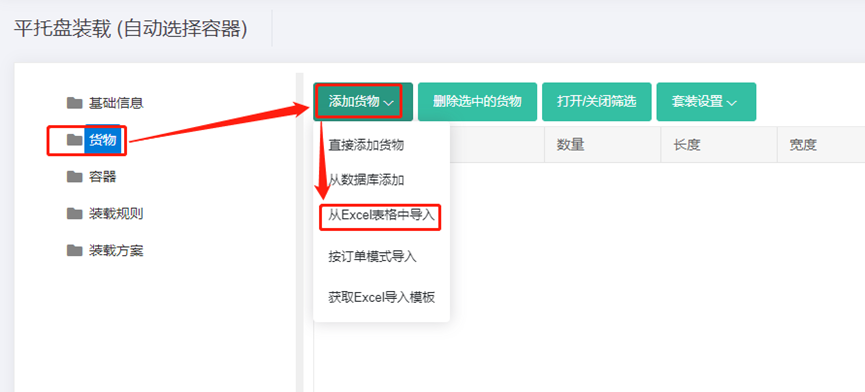
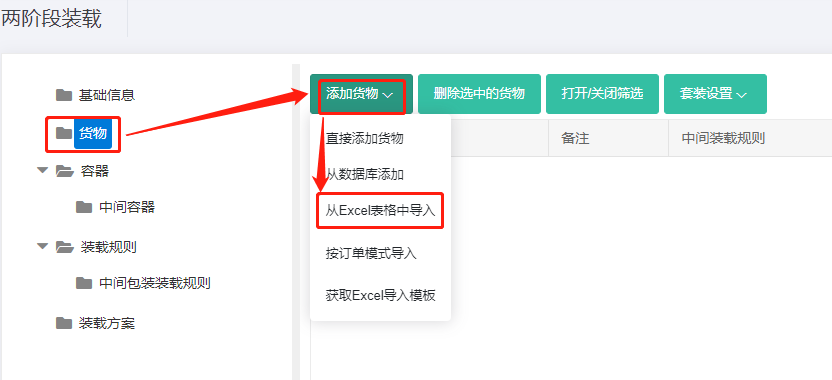
GitBook: [master] 5 pages and 25 assets modified

diff --git a/work/3-liang-jie-duan-you-hua-pei-zai/b-huo-wu-quan-da-tuo-zai-zhuang-gui-shi-ru-he-sheng-cheng-gao-di-tuo-chong-fen-li-yong-kong-jian.md b/work/3-liang-jie-duan-you-hua-pei-zai/b-huo-wu-quan-da-tuo-zai-zhuang-gui-shi-ru-he-sheng-cheng-gao-di-tuo-chong-fen-li-yong-kong-jian.md
@@ -1,0 +1,77 @@
+# b、货物全打托再装柜时如何生成高低托充分利用空间
+
+货物先打托后装集装箱时，为了充分利用集装箱的空间，可以生成高低托来装载，在软件中如何定义？
+
+下面通过一个示例来讲解：
+
+**装箱数据：**
+
+| 名称 | 数量 | 长（cm） | 宽（cm） | 高（cm） |
+| :--- | :--- | :--- | :--- | :--- |
+| A | 321 | 60 | 50 | 20 |
+| B | 360 | 30 | 25 | 20 |
+| C | 120 | 55 | 55 | 30 |
+| D | 264 | 27 | 55 | 30 |
+
+**装载要求：**
+
+1）货物不能长垂直于地摆放。
+
+2）计算货物如何全部打托再装40尺普柜，托盘使用亚洲通用平托盘1100\*1100。
+
+3）货物要打成上下两层托盘，托盘的高度不限定，为了充分利用空间，货物可以打成高低托来装载。
+
+根据当前装载要求，应选择“两阶段装载”任务类型，点击进入。
+
+![](../../.gitbook/assets/0%20%2824%29.png)
+
+进入基础信息填写界面，基础信息是选填项，用户可根据实际工作要求，填写PO单号、运单号或目的港等信息，方便以后查阅。接下来，开始方案的设计：
+
+**第一步：**点击左侧的【货物】，进入货物界面，因货物种类较多，所以使用excel批量导入。
+
+1）首先要获取导入模板，点击【添加货物】下的“获取excel导入模板”，另存到桌面。
+
+![](../../.gitbook/assets/1%20%2823%29.png)
+
+2）填写导入模板（下载好的模板会自动打开）：
+
+①将货物的名称、数量、长宽高复制进来，这是必填项。重量是单件货物的毛重，若货物重量较轻可以忽略，重量可以不填写，若货物较重，为了不超重安全运输，重量必须填写，注意单位的匹配。
+
+②然后定义货物的摆放方式，因本案例要求货物只能高垂直于地面摆放，即只能立放、立放水平旋转，所以要将其他摆放方式下的“允许”一栏填写为“0”，0表示不允许，1或者不填表示允许。
+
+![](../../.gitbook/assets/2%20%2824%29.png)
+
+③最后定义装载属性，因要求货物先打托后装集装箱，所以货物的“包装方式”都设置为“1”。0或不填表示货物直接装集装箱；1表示货物自由选择合适的托盘/纸箱；2表示货物使用指定的中间包装装载。
+
+![](../../.gitbook/assets/3%20%2823%29.png)
+
+本案例中其他装载要求不涉及，因此模板中其他参数不用设置，按默认值即可。实际工作中若有其他要求，涉及到相关参数的设置，可参考上文中的相关介绍。模板填写完成，保存后关闭。
+
+3）回到软件的货物界面，点击【添加货物】下的“从excel表格中导入”，在弹框中找到填写好的模板，点击打开，货物数据就全部导入到软件中了。
+
+![](../../.gitbook/assets/4%20%2823%29.png)
+
+**第二步:** 点击左侧的【容器】，添加集装箱，因要计算这批货物要装40GP，所以只需将40GP添加进来即可（若不知道用什么柜型，可以将常用的柜型都添加进来，让软件自动选择）。点击“从数据库中添加”，在弹框中勾选40GP，点击“添加”，关闭弹框，然后设置集装箱的角件和保留尺寸，关于定义保留尺寸的注意事项，请参考[《如何模拟纸箱胀箱和人工摆放间隙》。]()
+
+![](../../.gitbook/assets/5%20%2823%29.png)
+
+注意本案例是托盘装柜，为了方便叉车作业，高度保留尺寸要设置为10cm；因此集装箱角件10CM也就被扣除掉了，所以角件尺寸不用设置。
+
+**第三步：**点击左侧的【中间容器】，添加托盘。因要装亚洲通用平托盘1100\*1100，所以它添加进来即可。点击“从数据库中添加”，在弹框中勾选托盘1100\*1100，点击“添加”，关闭弹框。然后定义托盘的最大摆放高度，因用户要求货物要打成上下两层托盘，托盘的高度不限定，所以可以将托盘的最大摆放高度设置为大于集装箱高度一半的数值，可以对数值进行调整，分别看看装载效果，选择合适的装载方案，此案例设置为150cm。
+
+![](../../.gitbook/assets/6%20%2819%29.png)
+
+注：若不知道用什么托盘，可以将常用的托盘都添加进来，让软件自动选择。若是数据库中没有常用托盘，可以点击“直接添加”下的平托盘，然后编辑名称、长宽高等信息，为了避免每次重复输入，也可以将常用托盘维护到数据库中，具体方法步骤请参考上文中的[《容器管理》]()。
+
+**第四步：**点击【装载规则】，定义托盘装集装箱时的配载规则。因用户要求为了充分利用空间，货物可以打成高低托来装载，所以将 【中间包装生成方式】选择为“根据集装箱的高度动态确定托盘的高度”。
+
+![](../../.gitbook/assets/7%20%2818%29.png)
+
+**第五步：**点击左侧的【中间包装装载规则】，定义货物打托时的装载规则。因此案例打托时不涉及其他的装载要求，所以按默认设置即可，不需要改动。
+
+点击自动优化，得出装载方案，在左侧容器列表可以统计出这批货物使用了40个1100\*1100托盘，最后使用了1个40GP装完。分别点击容器名称，可以看到每个容器的3D装载效果图，图的右侧有当前容器的货物统计、装载步骤和平衡分析。根据立体图可以看到货物生成了高低托来装载，完全满足用户的需求。
+
+![](../../.gitbook/assets/8%20%2812%29.png)
+
+方案审核完成后，可以分享装载方案手机指导现场装载和下载装箱报表用来制作装箱单和报关单，具体方法步骤可以查看文档中的相关介绍。
+

diff --git a/work/2-tuo-pan-you-hua-pei-zai/c-ru-he-ding-yi-tong-yi-ding-dan-de-huo-wu-jin-liang-bu-chai-fen-dao-duo-ge-rong-qi-zhong.md b/work/2-tuo-pan-you-hua-pei-zai/c-ru-he-ding-yi-tong-yi-ding-dan-de-huo-wu-jin-liang-bu-chai-fen-dao-duo-ge-rong-qi-zhong.md
@@ -25,7 +25,7 @@
 
 根据当前装载要求，应选择“托盘装载/多品”任务类型，点击进入。
 
-![](../../.gitbook/assets/0%20%2825%29.png)
+![](../../.gitbook/assets/0%20%2826%29.png)
 
 进入基础信息填写界面，基础信息是选填项，用户可根据实际工作要求，填写PO单号、运单号或目的港等信息，方便以后查阅。接下来，开始方案的设计：
 
@@ -33,7 +33,7 @@
 
 1）首先要获取导入模板，点击【添加货物】下的“获取excel导入模板”，另存到桌面。
 
-![](../../.gitbook/assets/1%20%2824%29.png)
+![](../../.gitbook/assets/1%20%2825%29.png)
 
 2）填写导入模板（下载好的模板会自动打开）：
 
@@ -41,33 +41,33 @@
 
 ②然后定义货物的摆放方式，因本案例要求货物只能高垂直于地面摆放，即只能能立放、立放水平旋转，所以要将其他摆放方式下的“允许”一栏填写为“0”，0表示不允许，1或者不填表示允许。
 
-![](../../.gitbook/assets/2%20%2824%29.png)
+![](../../.gitbook/assets/2%20%2825%29.png)
 
 ③最后定义装载属性，因要求同一订单的货物尽量不拆分，所以需要将同一订单的货物设置相同的群组，不同订单的货物设置不同的群组。群组名称可以数字、汉字、字母，此案例使用订单号来定义。
 
-![](../../.gitbook/assets/3%20%2825%29.png)
+![](../../.gitbook/assets/3%20%2826%29.png)
 
 本案例中其他装载要求不涉及，因此模板中其他参数不用设置，按默认值即可。实际工作中若有其他要求，涉及到相关参数的设置，可参考上文中的相关介绍。模板填写完成，保存后关闭。
 
 3）回到软件的货物界面，点击【添加货物】下的“从excel表格中导入”，在弹框中找到填写好的模板，点击打开，货物数据就全部导入到软件中了。
 
-![](../../.gitbook/assets/4%20%2824%29.png)
+![](../../.gitbook/assets/4%20%2825%29.png)
 
 **第二步:** 点击左侧的【容器】，添加托盘，点击【添加容器】下的“平托盘”，然后设置托盘的长宽高为116\*116\*10cm，“最大摆放高度”为126CM。
 
-![](../../.gitbook/assets/5%20%2823%29.png)
+![](../../.gitbook/assets/5%20%2824%29.png)
 
 软件数据库中已存储常用的托盘信息，可以通过点击“从数据库添加”来添加，但是本案例的托盘信息没有在数据库中，所以此托盘要是经常使用，为了以后设计方案时避免重复输入，可以维护到数据库中，具体方法步骤可查看[《容器管理》]()。
 
 **第三步：**点击左侧的【装载规则】，进入装载规则界面，将“使同一个群组的货物分装的容器尽可能的少”勾选上。
 
-![](../../.gitbook/assets/6%20%2819%29.png)
+![](../../.gitbook/assets/6%20%2820%29.png)
 
 点击自动优化，得出装载方案。在左侧容器列表可以看到，货物使用3个托盘装完。中间是3D装载效果图，图的右侧有当前容器装载的货物统计。分别点击容器名称，可以通过每个托盘的立体图或统计表可以看出，同一个订单的货物装在了同一个集装箱内，没有分装到其他容器，完全满足客户的需求。
 
 ![](../../.gitbook/assets/7%20%2817%29.png)
 
-![](../../.gitbook/assets/8%20%2812%29.png)
+![](../../.gitbook/assets/8%20%2813%29.png)
 
 ![](../../.gitbook/assets/9%20%2810%29.png)
 

diff --git a/work/2-tuo-pan-you-hua-pei-zai/b-ru-he-ding-yi-bu-tong-ding-dan-de-huo-wu-bu-neng-hun-he-da-tuo.md b/work/2-tuo-pan-you-hua-pei-zai/b-ru-he-ding-yi-bu-tong-ding-dan-de-huo-wu-bu-neng-hun-he-da-tuo.md
@@ -25,7 +25,7 @@
 
 根据当前装载要求，应选择“托盘装载/多品”任务类型，点击进入。
 
-![](../../.gitbook/assets/0%20%2824%29.png)
+![](../../.gitbook/assets/0%20%2825%29.png)
 
 进入基础信息填写界面，基础信息是选填项，用户可根据实际工作要求，填写PO单号、运单号或目的港等信息，方便以后查阅。接下来，开始方案的设计：
 
@@ -33,7 +33,7 @@
 
 1）首先要获取导入模板，点击【添加货物】下的“获取excel导入模板”，另存到桌面。
 
-![](../../.gitbook/assets/1%20%2823%29.png)
+![](../../.gitbook/assets/1%20%2824%29.png)
 
 2）填写导入模板（下载好的模板会自动打开）：
 
@@ -41,17 +41,17 @@
 
 ②然后定义货物的摆放方式，因本案例要求货物不能长垂直于地面摆放，即不能躺放、躺放水平旋转，所以要将躺放、躺放水平旋转的“允许”一栏填写为“0”，0表示不允许，1或者不填表示允许。
 
-![](../../.gitbook/assets/2%20%2825%29.png)
+![](../../.gitbook/assets/2%20%2826%29.png)
 
 1. 最后定义装载属性，因要求只有A和B可以混装在一个托盘上，其他的不能混装，所以需要将可以混装的AB设置相同的群组，不允许混装的货物设置不同的群组。群组名称可以数字、汉字、字母，此案例使用字母来定义。
 
-![](../../.gitbook/assets/3%20%2824%29.png)
+![](../../.gitbook/assets/3%20%2825%29.png)
 
 本案例中其他装载要求不涉及，因此模板中其他参数不用设置，按默认值即可。实际工作中若有其他要求，涉及到相关参数的设置，可参考上文中的相关介绍。模板填写完成，保存后关闭。
 
 3）回到软件的货物界面，点击【添加货物】下的“从excel表格中导入”，在弹框中找到填写好的模板，点击打开，货物数据就全部导入到软件中了。
 
-![](../../.gitbook/assets/4%20%2823%29.png)
+![](../../.gitbook/assets/4%20%2824%29.png)
 
 **第二步:** 点击左侧的【容器】，添加托盘，点击“从数据库添加”,在弹框中勾选常用托盘，点击添加，关闭弹窗，然后分别设置托盘的“最大摆放高度”为120CM，“长宽方向允许出边”为5cm。
 
@@ -61,7 +61,7 @@
 
 **第三步：**点击左侧的【装载规则】，进入装载规则界面，将“允许不同群组的货物混装在一个容器内”取消勾选，即不允许不同群组的货物混装。
 
-![](../../.gitbook/assets/6%20%2821%29.png)
+![](../../.gitbook/assets/6%20%2822%29.png)
 
 点击自动优化，生成装载方案。在左侧容器列表可以看到，货物使用2个1100\*1100托盘、2个1200\*1000托盘装完。中间是3D装载效果图，通过立体图或图右侧的货物统计表可以看到只有AB混合装载，其他的都没有混装，完全满足客户的装载要求。
 

diff --git a/work/3-liang-jie-duan-you-hua-pei-zai/a-ru-he-shi-xian-huo-wu-xian-da-tuo-hou-zhuang-ji-zhuang-xiang-de-zhuang-zai-yao-qiu.md b/work/3-liang-jie-duan-you-hua-pei-zai/a-ru-he-shi-xian-huo-wu-xian-da-tuo-hou-zhuang-ji-zhuang-xiang-de-zhuang-zai-yao-qiu.md
@@ -31,7 +31,7 @@
 
 1）首先要获取导入模板，点击【添加货物】下的“获取excel导入模板”，另存到桌面。
 
-![](../../.gitbook/assets/1%20%2825%29.png)
+![](../../.gitbook/assets/1%20%2826%29.png)
 
 2）填写导入模板（下载好的模板会自动打开）：
 
@@ -39,11 +39,11 @@
 
 ②然后定义货物的摆放方式，因本案例要求货物不能长垂直于地面摆放，即不能躺放、躺放水平旋转，所以要将躺放、躺放水平旋转下的“允许”一栏填写为“0”，0表示不允许，1或者不填表示允许。
 
-![](../../.gitbook/assets/2%20%2826%29.png)
+![](../../.gitbook/assets/2%20%2827%29.png)
 
 ③最后定义装载属性，因要求货物先打托后装集装箱，所以货物的“包装方式”都设置为“1”。0或不填表示货物直接装集装箱；1表示货物自由选择合适的托盘/纸箱；2表示货物使用指定的中间包装装载。
 
-![](../../.gitbook/assets/3%20%2823%29.png)
+![](../../.gitbook/assets/3%20%2824%29.png)
 
 本案例中其他装载要求不涉及，因此模板中其他参数不用设置，按默认值即可。实际工作中若有其他要求，涉及到相关参数的设置，可参考上文中的相关介绍。模板填写完成，保存后关闭。
 
@@ -59,7 +59,7 @@
 
 **第三步：**点击左侧的【中间容器】，添加托盘。因用户不知道用什么规格的托盘装载，所以需要将常用的托盘都添加进来，以便软件择合适的托盘。若是数据库中没有常用托盘，可以点击“直接添加”下的平托盘，然后编辑名称、长宽高等信息，为了避免每次重复输入，也可以将常用托盘维护到数据库中，具体方法步骤请参考上文中的[《容器管理》]()。
 
-![](../../.gitbook/assets/6%20%2820%29.png)
+![](../../.gitbook/assets/6%20%2821%29.png)
 
 本案例，点击“从数据库添加”在弹框中找常用的欧标和亚标托盘，点击导入，关闭弹框。然后按照用户要求分别定义托盘的最大摆放高度为110cm。
 
@@ -71,7 +71,7 @@
 
 点击自动优化，得出装载方案。根据左侧容器列表可以统计出这批货物使用了32个1200\*1000托盘、10个1100\*1100托盘，最后使用了1个40GP装完。分别点击容器名称，可以看到每个容器的3D装载效果图，图的右侧有当前容器的货物统计、装载步骤和平衡分析。
 
-![](../../.gitbook/assets/8%20%2813%29.png)
+![](../../.gitbook/assets/8%20%2814%29.png)
 
 方案审核完成后，可以分享装载方案手机指导现场装载和下载装箱报表用来制作装箱单和报关单，具体方法步骤可以查看文档中的相关介绍。
 

diff --git a/SUMMARY.md b/SUMMARY.md
@@ -92,6 +92,7 @@
     * [c、如何定义同一订单的货物尽量不拆分到多个容器中](work/2-tuo-pan-you-hua-pei-zai/c-ru-he-ding-yi-tong-yi-ding-dan-de-huo-wu-jin-liang-bu-chai-fen-dao-duo-ge-rong-qi-zhong.md)
   * [3、两阶段优化配载](work/3-liang-jie-duan-you-hua-pei-zai/README.md)
     * [a、如何实现货物先打托后装集装箱的装载要求](work/3-liang-jie-duan-you-hua-pei-zai/a-ru-he-shi-xian-huo-wu-xian-da-tuo-hou-zhuang-ji-zhuang-xiang-de-zhuang-zai-yao-qiu.md)
+    * [b、货物全打托再装柜时如何生成高低托充分利用空间](work/3-liang-jie-duan-you-hua-pei-zai/b-huo-wu-quan-da-tuo-zai-zhuang-gui-shi-ru-he-sheng-cheng-gao-di-tuo-chong-fen-li-yong-kong-jian.md)
 * [六、方案审核](auditing-plan/README.md)
   * [1、是否模拟纸箱涨或人工摆放间隙情形？](auditing-plan/zhang-xiang-huo-bai-fang-jian-xi.md)
   * [2、是否正确定义了配载规则](auditing-plan/loading-rule.md)
